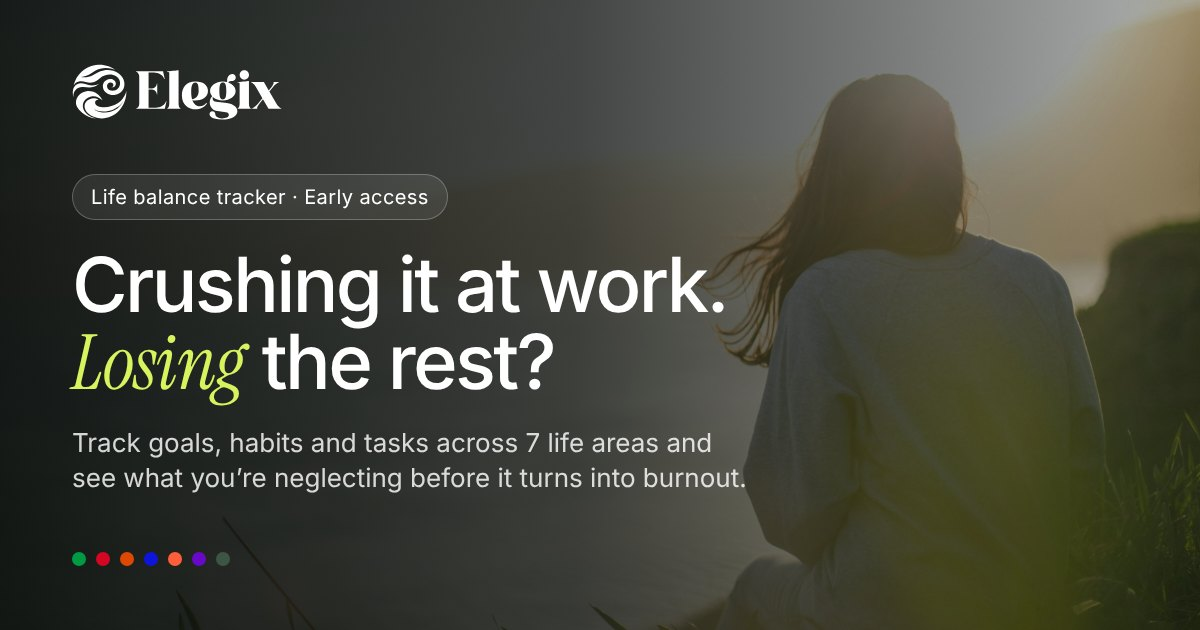
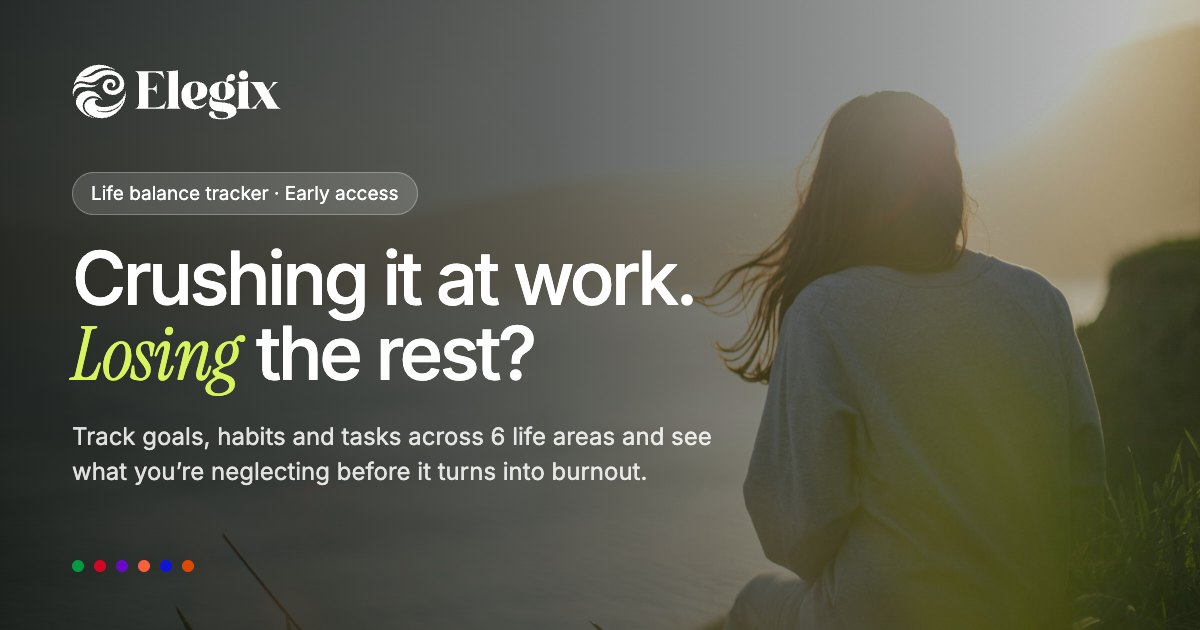
Six life areas, as in the app
- Areas renamed and reordered to match the app's Life Area radar: Health, Relationship,
  Spirituality, Leisure, Personal Growth, Finance & Career ("Life & Environment" removed)
- All "7 areas" copy, meta and FAQ now say 6; share image regenerated with 6 areas
- Balance check: 6 sliders; API validates 6 scores (older 7-score history is kept as is)
- First steps and descriptions updated for the renamed areas; emails list 6 areas
- Policy version 2026-10-14.5

diff --git a/lib/content.ts b/lib/content.ts
@@ -11,7 +11,7 @@
  * /public/images and set `src: "/images/your-file.jpg"`.
  */
 
-export type AreaKey = "health" | "people" | "career" | "growth" | "hobby" | "meaning" | "home";
+export type AreaKey = "health" | "people" | "meaning" | "hobby" | "growth" | "career";
 
 export type MediaSlot = {
   src?: string;
@@ -20,21 +20,21 @@ export type MediaSlot = {
   ratio: string; // CSS aspect-ratio, e.g. "4 / 5"
 };
 
+/** The 6 life areas, named and ordered exactly as in the app's Life Area radar. */
 export const AREAS: Record<AreaKey, { name: string; short: string; description: string; neglect: string }> = {
-  health: { name: "Health & Body", short: "Health", description: "Sleep, movement, food and energy.", neglect: "Sleep, food and movement are the first to go when work gets loud." },
-  people: { name: "Relationships & People", short: "People", description: "Family, friends, partner and community.", neglect: "The people who matter get whatever energy is left." },
-  career: { name: "Career & Finance", short: "Career", description: "Work, income, savings and business.", neglect: "Work gets every hour. But is it taking you where you want?" },
-  growth: { name: "Development & Training", short: "Growth", description: "Learning, skills, reading and courses.", neglect: "Learning stopped when the busy season started." },
-  hobby: { name: "Hobbies & Leisure", short: "Hobbies", description: "Play, creativity, rest and things you do for fun.", neglect: "When did you last do something just for fun?" },
-  meaning: { name: "Meaning & Awareness", short: "Meaning", description: "Values, reflection, mindfulness and purpose.", neglect: "Busy days leave no time to ask why." },
-  home: { name: "Life & Environment", short: "Home", description: "Home, surroundings, routines and order.", neglect: "Your space ends up looking like your head." },
+  health: { name: "Health", short: "Health", description: "Sleep, movement, food and energy.", neglect: "Sleep, food and movement are the first to go when work gets loud." },
+  people: { name: "Relationship", short: "Relationship", description: "Family, friends, partner and community.", neglect: "The people who matter get whatever energy is left." },
+  meaning: { name: "Spirituality", short: "Spirituality", description: "Values, reflection, mindfulness and inner calm.", neglect: "Busy days leave no time to stop and ask why." },
+  hobby: { name: "Leisure", short: "Leisure", description: "Rest, play, creativity and things you do for fun.", neglect: "When did you last do something just for fun?" },
+  growth: { name: "Personal Growth", short: "Personal Growth", description: "Learning, skills, reading and new challenges.", neglect: "Learning stopped when the busy season started." },
+  career: { name: "Finance & Career", short: "Finance & Career", description: "Work, income, savings and business.", neglect: "Work gets every hour. But is it taking you where you want?" },
 };
 
-export const AREA_ORDER: AreaKey[] = ["health", "people", "career", "growth", "hobby", "meaning", "home"];
+export const AREA_ORDER: AreaKey[] = ["health", "people", "meaning", "hobby", "growth", "career"];
 
 export const META = {
-  title: "Elegix · Life balance tracker for 7 areas of your life",
-  description: "Elegix tracks your goals, habits and tasks across 7 life areas and shows which part of your life you're neglecting, before it turns into burnout. Join the waitlist.",
+  title: "Elegix · Life balance tracker for 6 areas of your life",
+  description: "Elegix tracks your goals, habits and tasks across 6 life areas and shows which part of your life you're neglecting, before it turns into burnout. Join the waitlist.",
   keywords: ["life balance tracker", "life balance app", "work-life balance app", "wheel of life app", "balance wheel", "habit tracker", "goal tracker", "burnout prevention", "life areas", "personal growth app"],
 };
 
@@ -56,7 +56,7 @@ export const SOCIALS = [
 ];
 
 /** Shown under every signup form. Bump POLICY_VERSION whenever the privacy policy text changes. */
-export const POLICY_VERSION = "2026-10-14.4";
+export const POLICY_VERSION = "2026-10-14.5";
 
 /** Who runs Elegix, shown in the privacy policy: an individual entrepreneur (FOP) in Ukraine. */
 export const LEGAL_ENTITY = { name: "Eduard Korytskyi", form: "an individual entrepreneur (FOP)", city: "Lutsk", country: "Ukraine" };
@@ -69,7 +69,7 @@ export const EXAMPLE_TAG = "Example";
 export const HERO = {
   eyebrow: "Life balance tracker · Early access",
   title: "Crushing it at work. *Losing* the rest?",
-  lede: "Elegix tracks your goals, habits and tasks across 7 life areas and shows which part of your life you're neglecting, before it turns into burnout.",
+  lede: "Elegix tracks your goals, habits and tasks across 6 life areas and shows which part of your life you're neglecting, before it turns into burnout.",
   cta: "Get early access",
   trust: ["Free plan", "iOS & Android", "No spam, unsubscribe in one click"],
   media: { src: "/images/hero.jpg", alt: "A woman sitting on a grassy cliff, looking out over the sea in soft morning light", brief: "Hero photo · person outdoors at golden hour, calm · full-bleed 2400×1600", ratio: "3 / 2" } as MediaSlot,
@@ -77,7 +77,7 @@ export const HERO = {
     title: "Your balance",
     value: "5.6",
     of: "/10",
-    scores: [4, 5, 9, 6, 3, 5, 6],
+    scores: [4, 5, 3, 3, 6, 9],
     rows: [
       { area: "career" as AreaKey, value: "9.2", trend: "up" as const },
       { area: "health" as AreaKey, value: "4.1", trend: "down" as const },
@@ -106,7 +106,7 @@ export const COMPARE = {
   lede: "To-do apps ask “Did you get it done?” Elegix asks “Are you living the way you want?”",
   columns: ["To-do apps and Notion", "Elegix"],
   rows: [
-    { label: "What it tracks", them: "Tasks completed", us: "Balance across 7 life areas" },
+    { label: "What it tracks", them: "Tasks completed", us: "Balance across 6 life areas" },
     { label: "Setup", them: "Build your own system", us: "Ready framework, 2-minute start" },
     { label: "What it tells you", them: "You checked 12 boxes", us: "Health dropped 3 weeks in a row" },
     { label: "Horizon", them: "Today", us: "Your month and your year" },
@@ -117,7 +117,7 @@ export const COMPARE = {
 // 4
 export const INTRO = {
   label: "The Elegix framework",
-  title: "It starts with 7 *life areas*",
+  title: "It starts with 6 *life areas*",
   lede: "Every goal, habit and task belongs to an area. Together they make your balance score.",
   sample: { area: "health" as AreaKey, score: "4.1 / 10", text: "Sleep, movement, food", streak: "Dropped 3 weeks in a row" },
   link: { href: "#how", label: "See how it works" },
@@ -129,7 +129,7 @@ export const HOW = {
   title: "Know your balance. Change what happens *next*.",
   cta: "Get early access",
   steps: [
-    { title: "See", text: "One balance score and 7 area scores. Your whole life on one screen." },
+    { title: "See", text: "One balance score and 6 area scores. Your whole life on one screen." },
     { title: "Act", text: "Goals linked to daily habits and tasks, each with your “why”. Suggestions for the area that needs you most." },
     { title: "Reflect", text: "A 10-minute monthly review. What grew, what dropped, what to change." },
   ],
@@ -138,7 +138,7 @@ export const HOW = {
     { kind: "areas", caption: "Every area, scored", media: { src: "/images/how-areas.jpg", alt: "Friends laughing while making pizza together in a kitchen", brief: "Dinner with friends · 4:5", ratio: "4 / 5" } },
     { kind: "next", caption: "Next steps, simplified", media: { src: "/images/how-next.jpg", alt: "A notebook, pen and laptop on a wooden desk", brief: "Planning the week, desk · 4:5", ratio: "4 / 5" } },
   ] as { kind: "score" | "areas" | "next"; caption: string; media: MediaSlot }[],
-  score: { label: "Balance", from: "5.6", to: "7.2", scores: [7, 7, 8, 7, 6, 7, 8] },
+  score: { label: "Balance", from: "5.6", to: "7.2", scores: [7, 7, 6, 7, 7, 8] },
   changes: [
     { area: "health" as AreaKey, change: "+23%" },
     { area: "people" as AreaKey, change: "+12%" },
@@ -150,7 +150,7 @@ export const HOW = {
 
 // 6
 export const AREAS_SECTION = {
-  label: "Seven areas",
+  label: "Six areas",
   title: "Which area are you *neglecting*?",
   media: {
     health: { src: "/images/area-health.jpg", alt: "A man running on a track at sunrise", brief: "Morning run, park", ratio: "4 / 5" },
@@ -179,7 +179,7 @@ export const APP = {
 export const CHECK = {
   eyebrow: "Free life balance check",
   title: "Find your weakest area in *2 minutes*",
-  text: "Rate your 7 life areas from 1 to 10. We'll email your Life Balance score and one first step for your lowest area. Free, and you'll get a spot on the waitlist.",
+  text: "Rate your 6 life areas from 1 to 10. We'll email your Life Balance score and one first step for your lowest area. Free, and you'll get a spot on the waitlist.",
   question: "How satisfied are you with each area right now?",
   button: "Take the free check",
   result: "Your balance",
@@ -213,10 +213,10 @@ export const JOIN = {
   eyebrow: "Early access",
   title: "Join before launch. Get *founding member* perks.",
   perks: ["First access, in the order you join", "A founding member price, locked for life", "Vote on what we build next", "A free plan, forever"],
-  card: { code: "Founding member", line: "Life balance", spec: ["7 life areas", "Goals · Habits · Tasks", "iOS & Android"] },
+  card: { code: "Founding member", line: "Life balance", spec: ["6 life areas", "Goals · Habits · Tasks", "iOS & Android"] },
   startLabel: "How do you want to start?",
   starts: [
-    { id: "template", title: "Use the 7-area template" },
+    { id: "template", title: "Use the 6-area template" },
     { id: "own", title: "Set it up my way" },
     { id: "unsure", title: "Not sure yet" },
   ],
@@ -232,7 +232,7 @@ export const FAQ_SECTION = {
 };
 
 export const FAQ = [
-  { q: "How is Elegix different from Todoist or Notion?", a: "They track whether you finished tasks. Elegix shows whether your life is balanced: 7 areas, one score, a monthly review. No system to build." },
+  { q: "How is Elegix different from Todoist or Notion?", a: "They track whether you finished tasks. Elegix shows whether your life is balanced: 6 areas, one score, a monthly review. No system to build." },
   { q: "Is the balance score real or just a number?", a: "It combines a quick weekly self-rating of each area with what you actually do. If there's too little data, Elegix tells you instead of guessing." },
   { q: "I've given up on every planner. Why would this one stick?", a: "You start from a ready template in 2 minutes, and the app asks for one short check-in a week. There's nothing to maintain." },
   { q: "When does it launch?", a: "We're finishing the first version. Waitlist members get in first, in the order they joined." },
@@ -278,7 +278,7 @@ export const EMAIL = {
     subtitle: "You're on the Elegix waitlist. We'll email you the moment your spot opens.",
     gridTitle: "With Elegix, you'll:",
     grid: [
-      { icon: "chart.png", text: "See all 7 areas of your life on one screen" },
+      { icon: "chart.png", text: "See all 6 areas of your life on one screen" },
       { icon: "battery.png", text: "Notice what's slipping before it turns into burnout" },
       { icon: "timer.png", text: "Have time to rest, not just work" },
       { icon: "box.png", text: "Turn big goals into small daily steps, without guilt" },
@@ -290,7 +290,7 @@ export const EMAIL = {
     subject: "Your Life Balance score: {score}/10",
     title: "Your Life Balance score: {score}/10",
     subtitle: "Your lowest area right now is {area}. That's not a failure. It's the best place to start.",
-    areasTitle: "Your 7 life areas",
+    areasTitle: "Your 6 life areas",
     stepTitle: "Your first step for {area}",
     button: { label: "See how Elegix works", href: "https://elegix-site.vercel.app/#how" },
     reply: "Want to talk through your result? Just hit reply, I read every answer.",
@@ -308,8 +308,7 @@ export const EMAIL = {
     career: "Write down where you want work to take you in a year, then check if this week moved you closer.",
     growth: "Choose one book or course and give it 15 minutes, three times this week.",
     hobby: "Block one hour this weekend for something you do just for fun, with no goal attached.",
-    meaning: "Spend 5 minutes tonight writing down what mattered most to you today.",
-    home: "Clear one surface you see every day, and keep it clear for a week.",
+    meaning: "Take 5 quiet minutes tonight, no phone, and write down what mattered most to you today.",
   } as Record<AreaKey, string>,
 };
 

diff --git a/app/api/waitlist/route.ts b/app/api/waitlist/route.ts
@@ -5,7 +5,8 @@ import { POLICY_VERSION } from "@/lib/content";
 const EMAIL_RE = /^[^\s@]+@[^\s@]+\.[^\s@]{2,}$/;
 const STARTS = new Set(["template", "own", "unsure"]);
 
-const AREA_KEYS = ["health", "people", "career", "growth", "hobby", "meaning", "home"] as const;
+// The 6 life areas, as in the app (lib/content.ts AREA_ORDER). Older signups stored 7 scores; those stay as they are.
+const AREA_KEYS = ["health", "people", "meaning", "hobby", "growth", "career"] as const;
 
 type Body = { email?: unknown; source?: unknown; start?: unknown; company?: unknown; scores?: unknown; consent?: unknown; page?: unknown; attribution?: unknown };
 
@@ -19,7 +20,7 @@ function parseAttribution(v: unknown): Signup["attribution"] {
   return Object.values(out).some(Boolean) ? out : undefined;
 }
 
-/** Balance check: an optional object with all 7 areas rated as whole numbers 1–10. */
+/** Balance check: an optional object with all 6 areas rated as whole numbers 1–10. */
 function parseScores(value: unknown): Record<string, number> | null | "invalid" {
   if (value === undefined || value === null) return null;
   if (typeof value !== "object" || Array.isArray(value)) return "invalid";
@@ -53,7 +54,7 @@ export async function POST(request: Request) {
 
   const scores = parseScores(body.scores);
   if (scores === "invalid") {
-    return NextResponse.json({ error: "Rate each of the 7 areas from 1 to 10." }, { status: 400 });
+    return NextResponse.json({ error: "Rate each of the 6 areas from 1 to 10." }, { status: 400 });
   }
 
   if (rateLimited(request)) {

diff --git a/lib/legal.ts b/lib/legal.ts
@@ -775,7 +775,7 @@ export function websiteSection(entity: { name: string; form: string; city: strin
       { type: "list", items: [
         "Your email address, when you join the waitlist or take the Life Balance check.",
         "Which form you used (for example the hero, the balance check or the early access form) and, in the early access form, how you'd like to start.",
-        "If you take the Life Balance check: your 7 area ratings from 1 to 10. They are your own estimates, not medical information, and we keep your last 10 checks so you can see your progress later.",
+        "If you take the Life Balance check: your 6 area ratings from 1 to 10. They are your own estimates, not medical information, and we keep your last 10 checks so you can see your progress later.",
         "When you joined, and a record of your consent: the date, the page and the version of this policy.",
         "Where you came from, if your link had it: the referring website, the page you first landed on and campaign tags (utm_source, utm_medium, utm_campaign). Your browser keeps these locally until you sign up.",
         "Whether you opened our emails. Our email provider records opens with a small invisible image, together with the device and approximate location of the open.",

diff --git a/components/sections/BalanceCheck.module.css b/components/sections/BalanceCheck.module.css
@@ -5,7 +5,7 @@
 .form { display: grid; gap: 16px; align-content: start; }
 .sliders { border: 0; margin: 0; padding: 0; display: grid; gap: 6px; }
 .sliders legend { font-weight: 500; margin-bottom: 12px; padding: 0; }
-.slider { display: grid; grid-template-columns: 7.5rem 1fr 2rem; align-items: center; gap: 14px; padding: 8px 12px; border-radius: 14px; background: var(--cream); cursor: pointer; }
+.slider { display: grid; grid-template-columns: 10rem 1fr 2rem; align-items: center; gap: 14px; padding: 8px 12px; border-radius: 14px; background: var(--cream); cursor: pointer; }
 .name { display: flex; align-items: center; gap: 8px; font-size: 0.9rem; }
 .icon { width: 24px; height: 24px; border-radius: 7px; display: grid; place-items: center; background: var(--t); color: var(--s); flex: none; }
 .icon svg { width: 13px; height: 13px; }

diff --git a/components/ui/Wheel.tsx b/components/ui/Wheel.tsx
@@ -2,7 +2,7 @@ import { AREA_ORDER } from "@/lib/content";
 
 type Props = { scores: number[]; size?: number; ring?: string; className?: string; label?: string };
 
-/** Wheel of Life: 7 areas x 10 rings, filled up to each area's score. */
+/** Wheel of Life: 6 areas x 10 rings, filled up to each area's score. */
 export function Wheel({ scores, size = 160, ring = "#e3e7e3", className, label }: Props) {
   const R0 = 10, R1 = 50, n = AREA_ORDER.length;
   const pt = (r: number, a: number) => `${(r * Math.cos(a)).toFixed(2)} ${(r * Math.sin(a)).toFixed(2)}`;

diff --git a/lib/email/template.ts b/lib/email/template.ts
@@ -12,7 +12,7 @@ export type BuiltEmail = { subject: string; text: string; html: string; inline: 
 // Area colours from the brand book (same as --{area}-s in app/globals.css).
 const AREA_COLOR: Record<AreaKey, string> = {
   health: "#009a44", people: "#d50524", career: "#dd4903", growth: "#0f14da",
-  hobby: "#ff5e3b", meaning: "#6709c7", home: "#3d5545",
+  hobby: "#ff5e3b", meaning: "#6709c7",
 };
 
 const C = { bg: "#f6f8f6", card: "#ffffff", brand: "#009a44", text: "#031c08", muted: "#8a8a8e", track: "#e9ebe9" };

diff --git a/components/ui/AreaIcon.tsx b/components/ui/AreaIcon.tsx
@@ -23,7 +23,6 @@ const PATHS: Record<AreaKey, React.ReactNode> = {
       <rect fill="currentColor" x="2.5" y="11.5" width="11" height="2.5" rx="1.25" />
     </>
   ),
-  home: <path fill="currentColor" d="M8 1.8l6.2 5.4V14a.5.5 0 0 1-.5.5H10V10H6v4.5H2.3a.5.5 0 0 1-.5-.5V7.2z" />,
 };
 
 export function AreaIcon({ area, className }: { area: AreaKey; className?: string }) {

diff --git a/README.md b/README.md
@@ -15,7 +15,7 @@ npm run build && npm start
 The waitlist runs on Mailgun (US region, sending domain `mail.elegix.net`). Every signup from any form on the page:
 
 1. is added to the Mailgun mailing list `waitlist@mail.elegix.net` with its details as member variables (`source`, `start`, `scores`, `joinedAt`). **This list is the waitlist.** See it in Mailgun → Send → Mailing lists → `waitlist@mail.elegix.net`, where you can also download the members as CSV.
-2. gets a confirmation email from "Edward from Elegix" `<edward@mail.elegix.net>` (replies go to `hello@elegix.net`). People who took the balance check get their score, all 7 areas and a first step for their weakest area instead of the welcome content.
+2. gets a confirmation email from "Edward from Elegix" `<edward@mail.elegix.net>` (replies go to `hello@elegix.net`). People who took the balance check get their score, all 6 areas and a first step for their weakest area instead of the welcome content.
 
 The emails follow the Figma file "[DS] Foundation Elegix" → Email Template → Welcome eng. Layout lives in `lib/email/template.ts`, copy in `EMAIL` in `lib/content.ts`. Images (logo, illustration, icons) are PNGs in `lib/email/assets/`, attached inline (`cid:`), so they show without public hosting; after changing a PNG run `node lib/email/build-assets.mjs`. Open tracking follows the domain settings in Mailgun. Click tracking is switched off per message (`o:tracking-clicks=no` in `lib/mailgun.ts`) because the tracking domain `email.mail.elegix.net` only serves http and tracked links fail in Chrome. **When HTTPS tracking is enabled for `mail.elegix.net` in Mailgun (Domain settings → Tracking → HTTPS), remove that line to turn click tracking back on.** The footer's unsubscribe link is our own: `/unsubscribe?e=…&t=…` on the public site, signed with `UNSUBSCRIBE_SECRET`. The page asks to confirm (so link scanners can't unsubscribe anyone), then marks the person `subscribed: no` on the waitlist list. Without `UNSUBSCRIBE_SECRET` the footer falls back to Mailgun's `%unsubscribe_url%`.
 
@@ -36,10 +36,14 @@ Environment variables (already set in Vercel for Production and for the `dev` pr
 Webhook payload (balance-check signups include `scores`):
 
 ```json
-{ "email": "name@example.com", "source": "balance-check", "start": null, "scores": { "health": 8, "people": 6, "career": 9, "growth": 4, "hobby": 2, "meaning": 5, "home": 7 }, "joinedAt": "2026-10-14T01:00:00.000Z" }
+{ "email": "name@example.com", "source": "balance-check", "start": null, "scores": { "health": 8, "people": 6, "meaning": 5, "hobby": 2, "growth": 4, "career": 9 }, "joinedAt": "2026-10-14T01:00:00.000Z" }
 ```
 
 Without Mailgun and without a webhook, the forms log signups to the terminal in development and tell visitors the waitlist isn't open yet in production. Nothing is lost silently.
+
+## Life areas
+
+The site uses the app's 6 life areas, in the app's radar order: Health, Relationship, Spirituality, Leisure, Personal Growth, Finance & Career (`AREAS` and `AREA_ORDER` in `lib/content.ts`; internal keys `health`, `people`, `meaning`, `hobby`, `growth`, `career`). Signups from before this change may carry 7 scores (with `home`) in their Mailgun history; they are kept as they are.
 
 ## Edit copy and images
 
